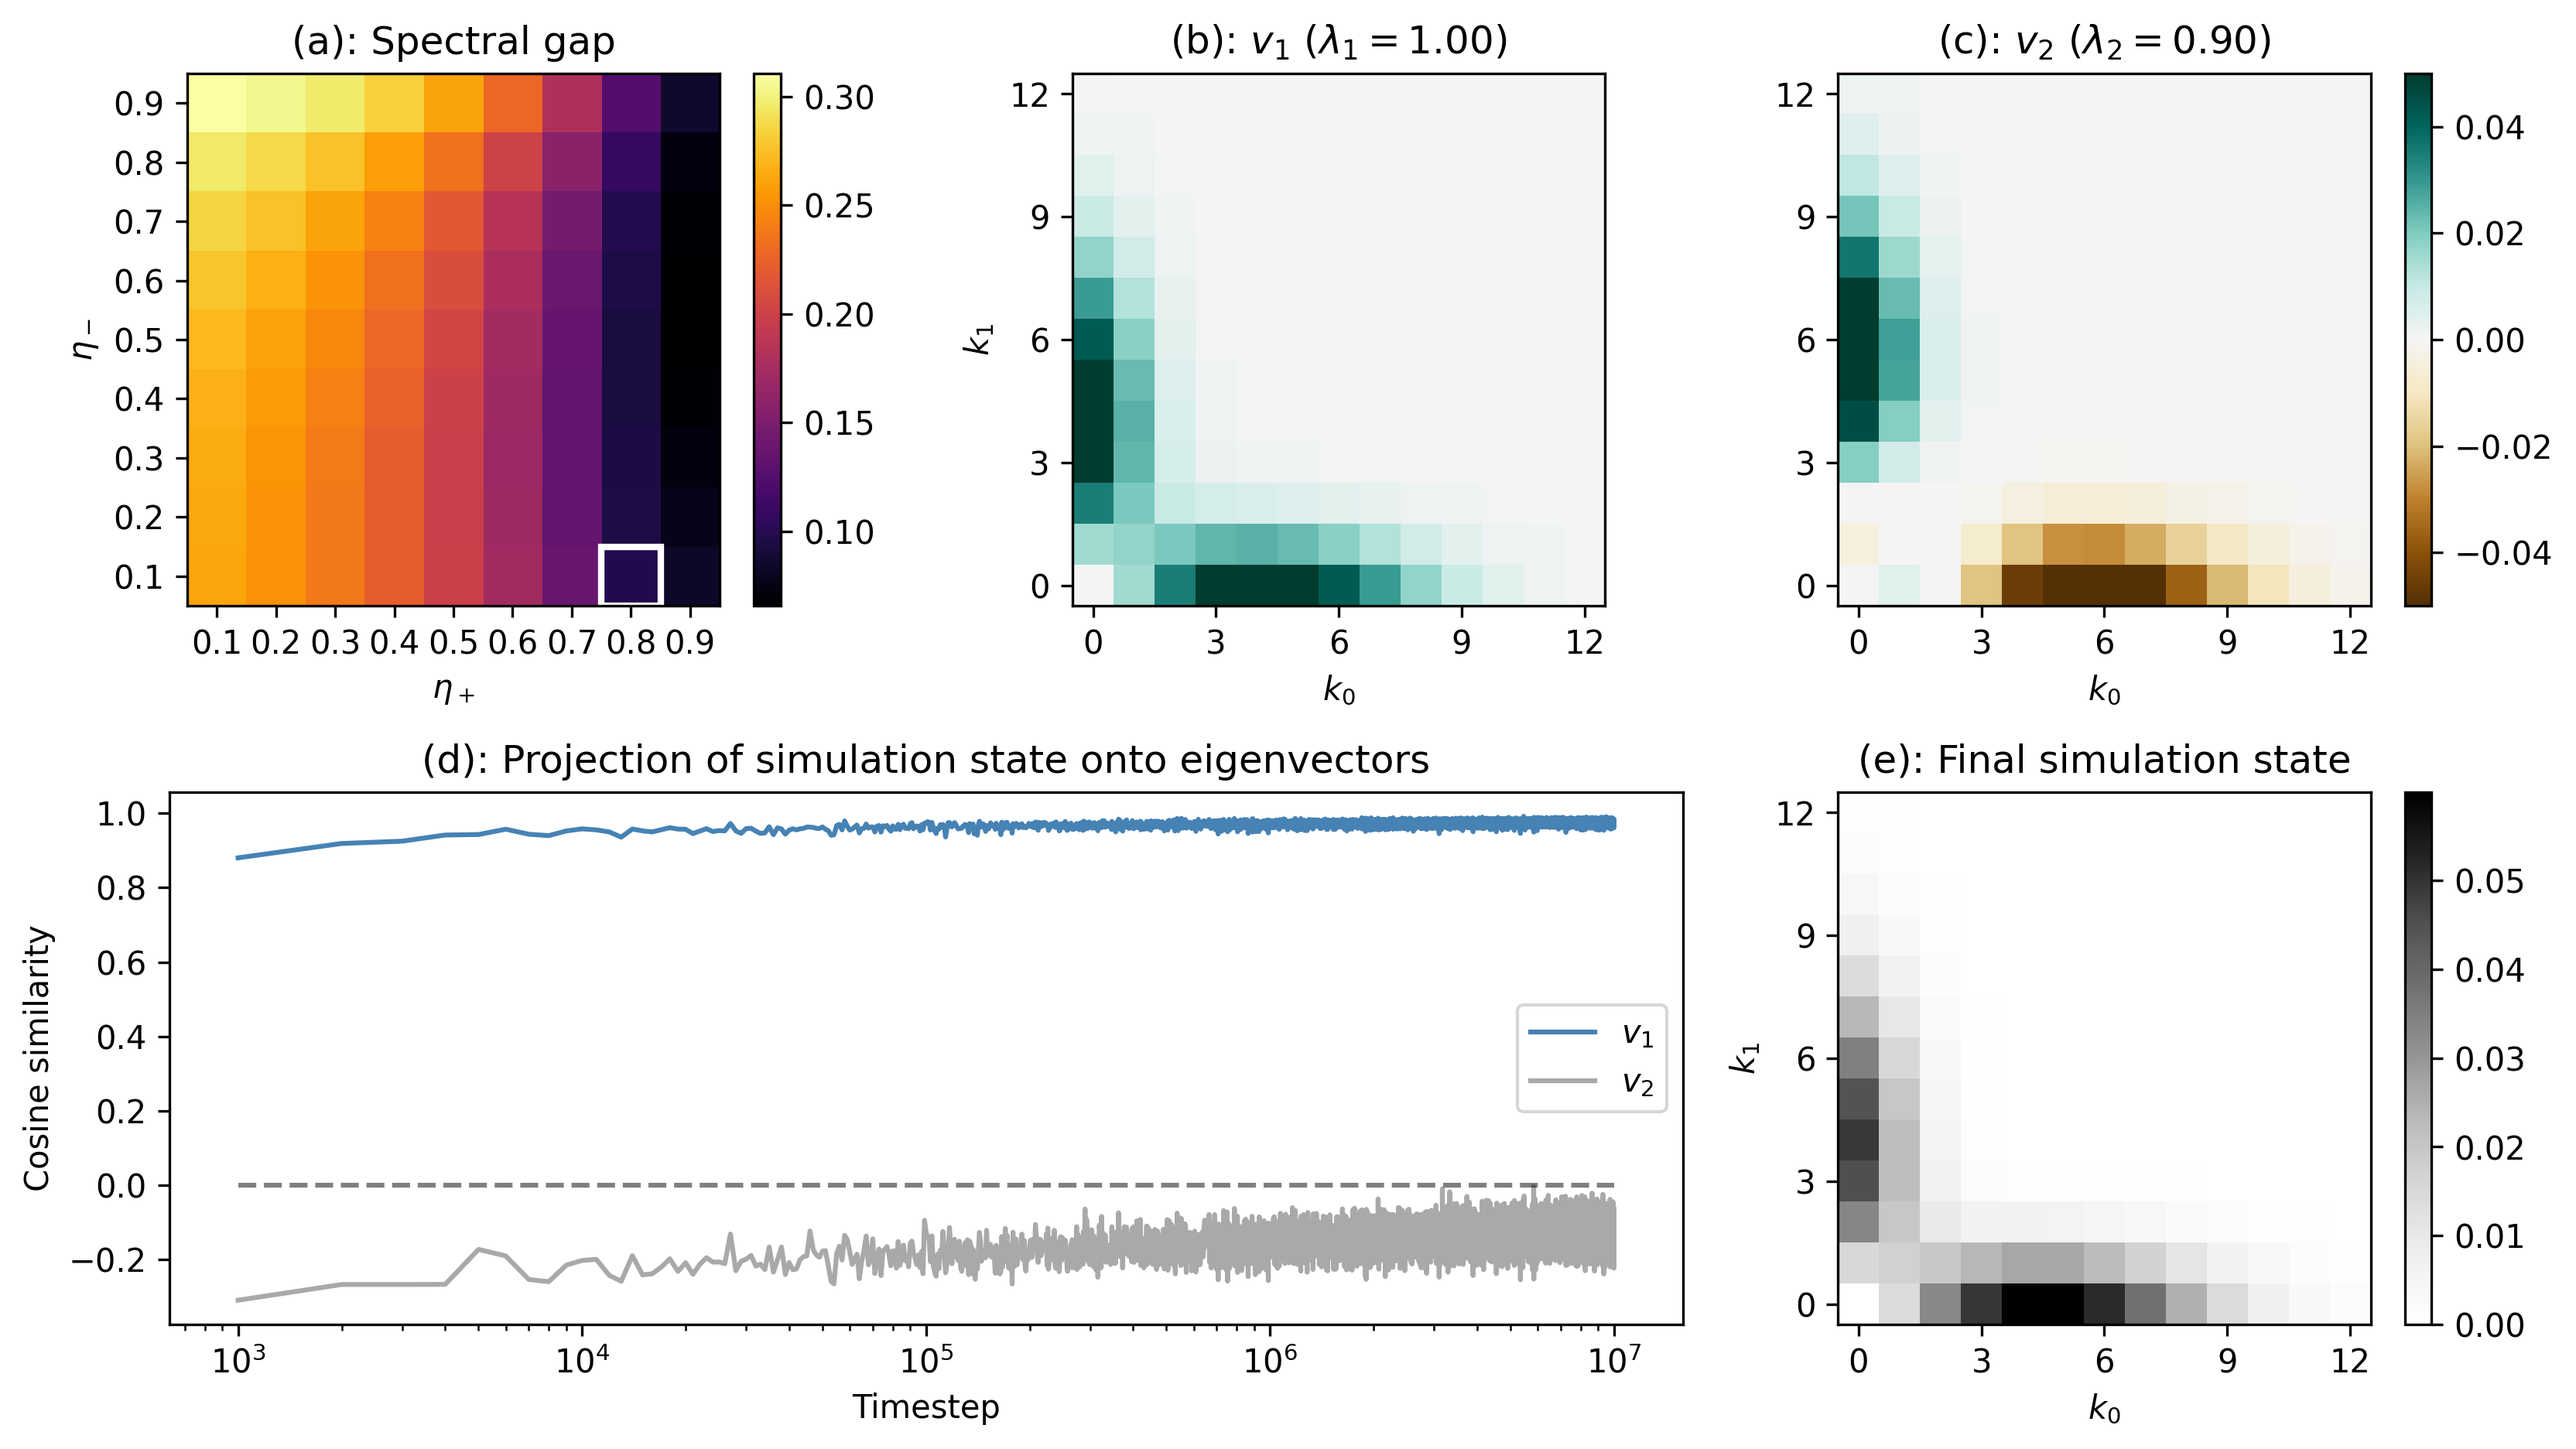
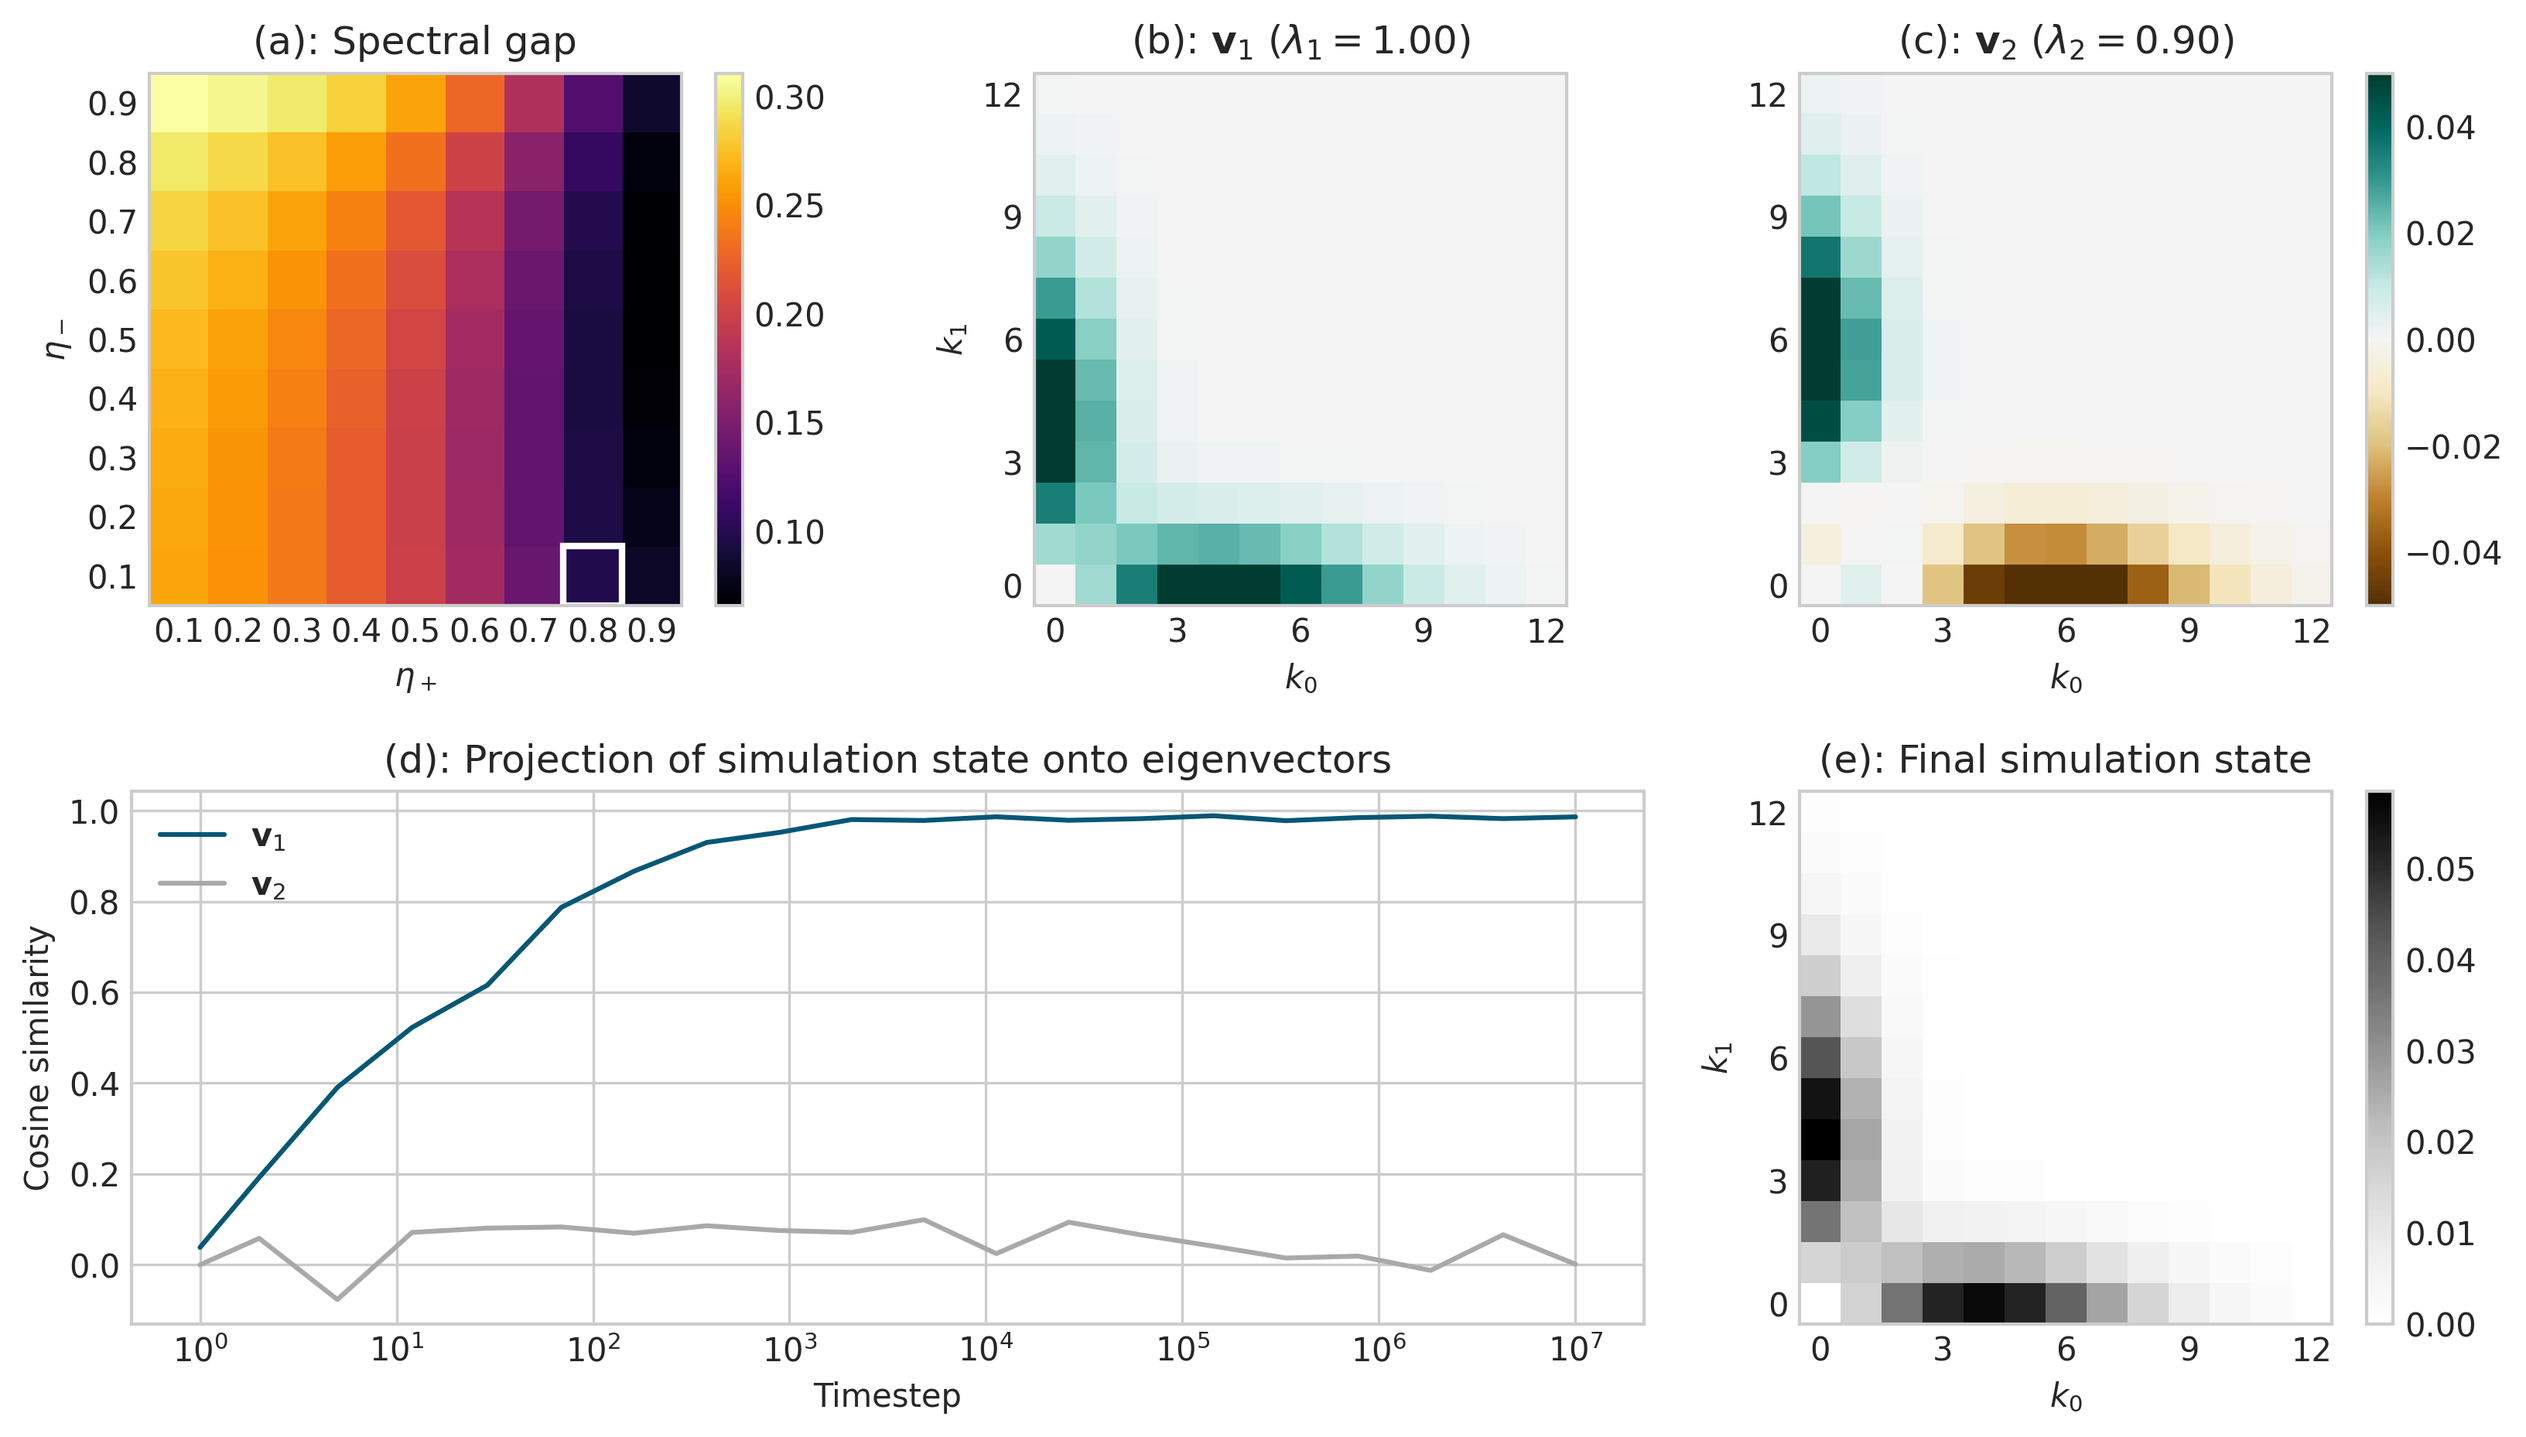
tweaks to dynamics fig

diff --git a/scripts/stationarity.py b/scripts/stationarity.py
@@ -120,7 +120,10 @@ if __name__ == "__main__":
     # SECOND: simulation with the same parameters
     
     n_steps = int(1e7)
-    project_every = 1000
+    num_projections = 20
+    logspace = np.logspace(0, np.log10(n_steps+1), num_projections, dtype = int)
+
+    # project_every = 1000
     window = 1000
     
     TS = ToySimulator(edge_list = [[5,5]], theta = theta, force_label = None)
@@ -131,10 +134,10 @@ if __name__ == "__main__":
     # print(Cz)
     # print((eigvecs[0]**2).sum())
     
-    for j in range(1, n_steps): 
+    for j in range(1, n_steps+1): 
         TS.simulate(n_samples = 1)
             
-        if j % project_every == 0:
+        if j in logspace:
             C = get_dist(TS, window, k_max)
             
             # experimental results here are a bit weird since the 
@@ -172,7 +175,7 @@ if __name__ == "__main__":
     
     # fig, ax = plt.subplots(1, 4, figsize = (18, 6))
     
-    colors = ["steelblue", "darkgrey", "lightgrey"]
+    colors = ["#055775", "darkgrey", "lightgrey"]
     letter_labels = ["(b)", "(c)"]
     
     for i in range(2):
@@ -184,7 +187,8 @@ if __name__ == "__main__":
         
         ax = axes[i+1]
         im = ax.imshow(P, cmap = "BrBG", interpolation = "none", vmin = v_min, vmax = vmax, origin = "lower")
-        ax.set_title(rf"{letter_labels[i]}: $v_{i+1}$ ($\lambda_{i+1} = {val:.2f}$)")
+        ax.grid(False)
+        ax.set_title(rf"{letter_labels[i]}: $\mathbf{{v}}_{{{i+1}}}$ ($\lambda_{{{i+1}}} = {val:.2f}$)")
         ax.set_xlabel(r"$k_0$")
         if i == 0: 
             ax.set_ylabel(r"$k_1$")
@@ -193,7 +197,7 @@ if __name__ == "__main__":
         ax.set_yticks(range(0, k_max + 1, 3))
         
         ax = axes[3]
-        ax.plot(projection_timesteps, projections[i], label = fr"$v_{i+1}$", color = colors[i])
+        ax.plot(projection_timesteps, projections[i], label = fr"$\mathbf{{v}}_{{{i+1}}}$", color = colors[i])
         ax.legend()
         ax.semilogx()
         ax.set_title("(d): Projection of simulation state onto eigenvectors")
@@ -202,7 +206,7 @@ if __name__ == "__main__":
     
     
     ax = axes[3]
-    ax.plot([min(projection_timesteps), n_steps], [0, 0], "k--", alpha = 0.5)
+    # ax.plot([min(projection_timesteps), n_steps], [0, 0], "k--", alpha = 0.5)
     ax.set_xlabel("Timestep")
     ax.set_ylabel("Cosine similarity")
     # axes[3].set_xlim(window, None)
@@ -221,6 +225,7 @@ if __name__ == "__main__":
     
     ax.set_xticks(range(0, k_max + 1, 3))
     ax.set_yticks(range(0, k_max + 1, 3))
+    ax.grid(False)
     
     fig.colorbar(im)
     fig.colorbar(final)
@@ -235,6 +240,7 @@ if __name__ == "__main__":
     ax.set_xticklabels([f"{x:.1f}" for x in np.linspace(0.1, 0.9, grid_resolution)])
     ax.set_yticks(range(grid_resolution))
     ax.set_yticklabels([f"{x:.1f}" for x in np.linspace(0.1, 0.9, grid_resolution)])
+    ax.grid(False)
     
     fig.colorbar(im, ax = ax, format = "%.2f")
     
